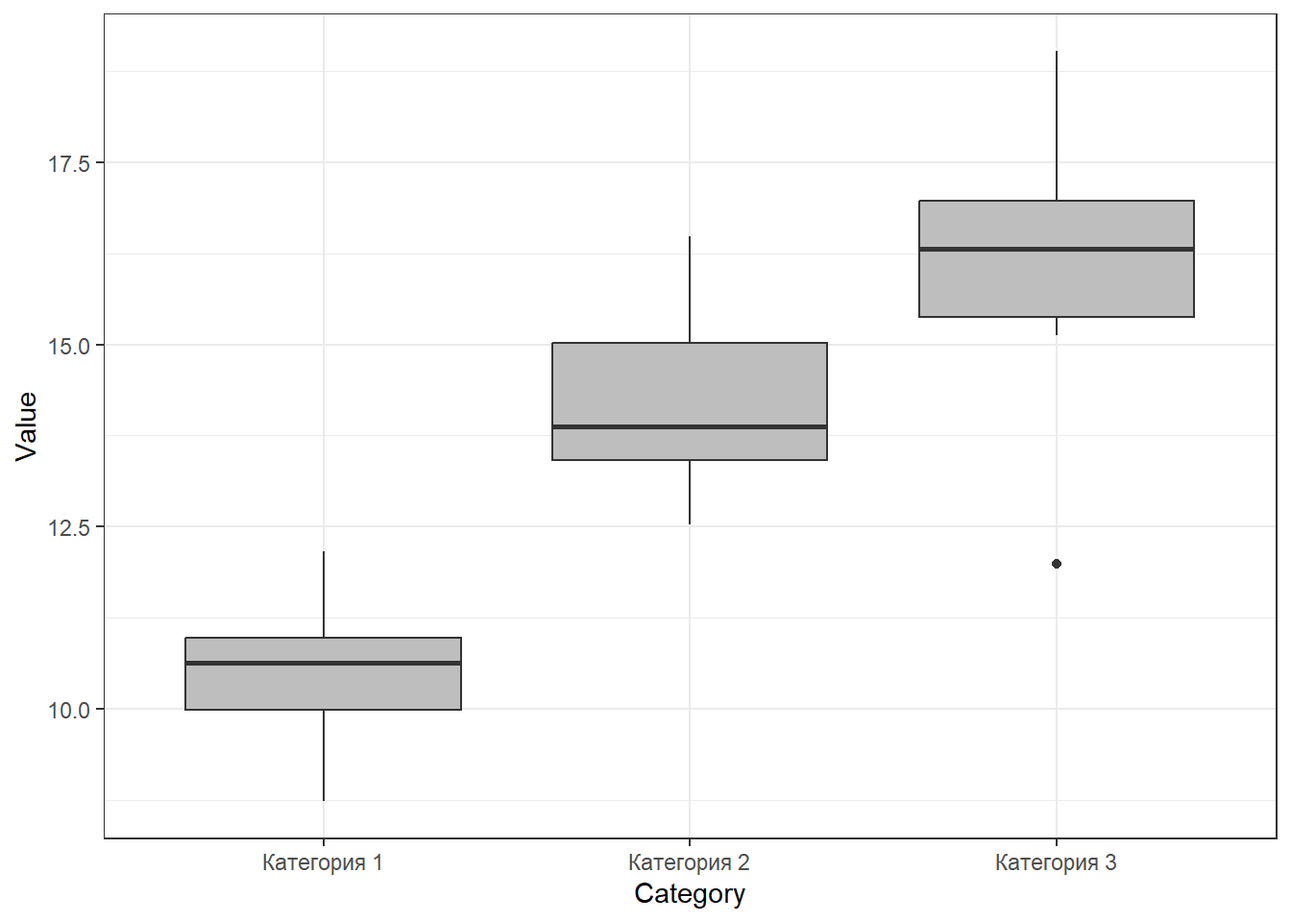
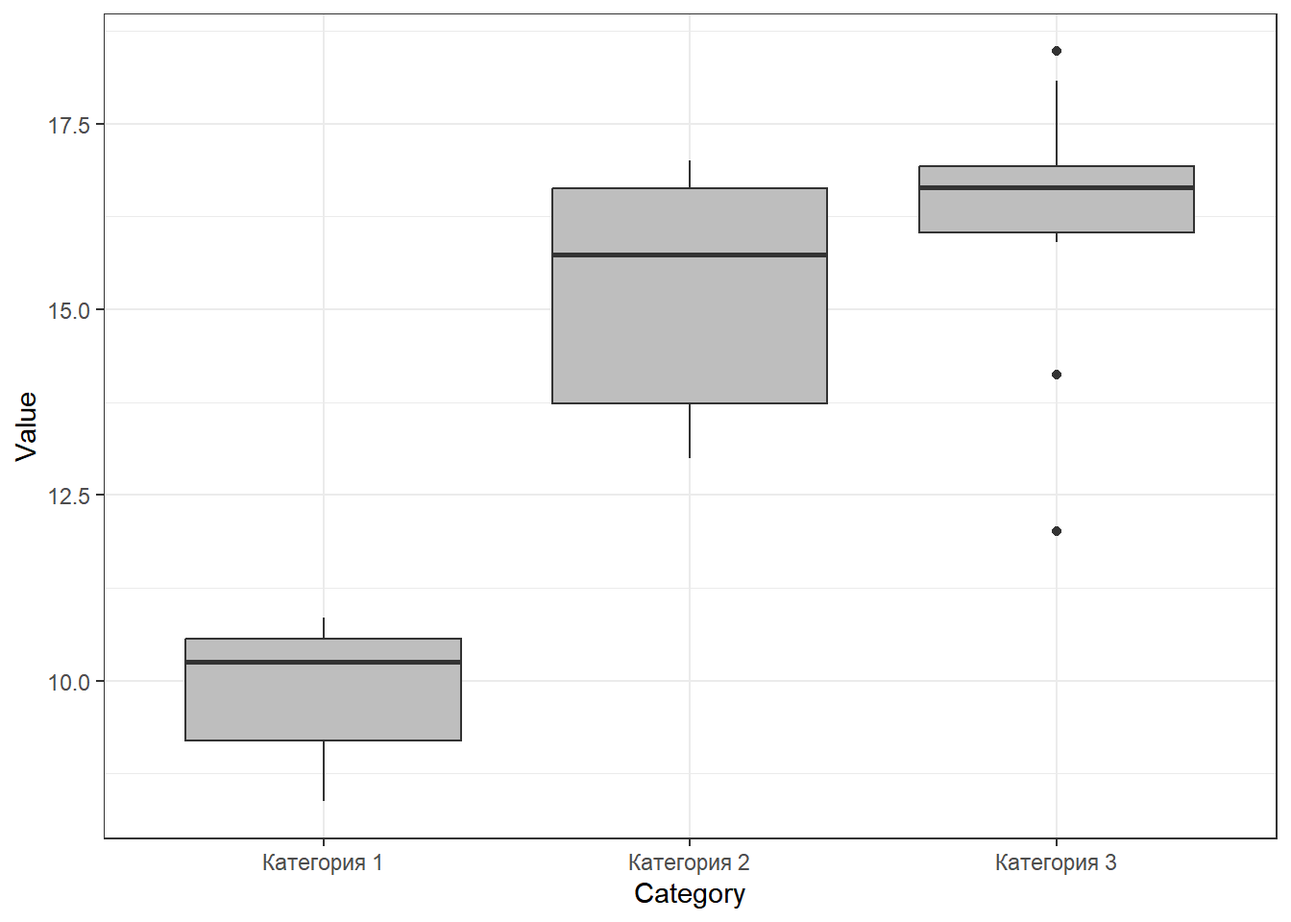
Открыл лекцию по диспе. анализу

diff --git a/lectures.html b/lectures.html
@@ -13,7 +13,7 @@
 
 <title>Презентации и данные</title>
 
-<script src="site_libs/header-attrs-2.25/header-attrs.js"></script>
+<script src="site_libs/header-attrs-2.28/header-attrs.js"></script>
 <script src="site_libs/jquery-3.6.0/jquery-3.6.0.min.js"></script>
 <meta name="viewport" content="width=device-width, initial-scale=1" />
 <link href="site_libs/bootstrap-3.3.5/css/flatly.min.css" rel="stylesheet" />
@@ -33,8 +33,6 @@
 <link href="site_libs/tocify-1.9.1/jquery.tocify.css" rel="stylesheet" />
 <script src="site_libs/tocify-1.9.1/jquery.tocify.js"></script>
 <script src="site_libs/navigation-1.1/tabsets.js"></script>
-<link href="site_libs/tabwid-1.1.3/tabwid.css" rel="stylesheet" />
-<script src="site_libs/tabwid-1.1.3/tabwid.js"></script>
 
 <style type="text/css">
   code{white-space: pre-wrap;}
@@ -566,8 +564,7 @@ virginica.</p>
 набить в экселе.</p>
 <p>Для примера, решение аналогичного задания, для вида “setosa” по
 переменной <code>iris$Sepal.Width</code> будет выглядеть вот так.</p>
-<pre><code>## Warning: пакет &#39;flextable&#39; был собран под R версии 4.3.3</code></pre>
-<div class="tabwid"><style>.cl-69713e52{}.cl-69620ee6{font-family:'Arial';font-size:11pt;font-weight:normal;font-style:normal;text-decoration:none;color:rgba(0, 0, 0, 1.00);background-color:transparent;}.cl-69664e34{margin:0;text-align:left;border-bottom: 0 solid rgba(0, 0, 0, 1.00);border-top: 0 solid rgba(0, 0, 0, 1.00);border-left: 0 solid rgba(0, 0, 0, 1.00);border-right: 0 solid rgba(0, 0, 0, 1.00);padding-bottom:5pt;padding-top:5pt;padding-left:5pt;padding-right:5pt;line-height: 1;background-color:transparent;}.cl-69664e3e{margin:0;text-align:right;border-bottom: 0 solid rgba(0, 0, 0, 1.00);border-top: 0 solid rgba(0, 0, 0, 1.00);border-left: 0 solid rgba(0, 0, 0, 1.00);border-right: 0 solid rgba(0, 0, 0, 1.00);padding-bottom:5pt;padding-top:5pt;padding-left:5pt;padding-right:5pt;line-height: 1;background-color:transparent;}.cl-69666acc{width:0.75in;background-color:transparent;vertical-align: middle;border-bottom: 1.5pt solid rgba(102, 102, 102, 1.00);border-top: 1.5pt solid rgba(102, 102, 102, 1.00);border-left: 0 solid rgba(0, 0, 0, 1.00);border-right: 0 solid rgba(0, 0, 0, 1.00);margin-bottom:0;margin-top:0;margin-left:0;margin-right:0;}.cl-69666ad6{width:0.75in;background-color:transparent;vertical-align: middle;border-bottom: 1.5pt solid rgba(102, 102, 102, 1.00);border-top: 1.5pt solid rgba(102, 102, 102, 1.00);border-left: 0 solid rgba(0, 0, 0, 1.00);border-right: 0 solid rgba(0, 0, 0, 1.00);margin-bottom:0;margin-top:0;margin-left:0;margin-right:0;}.cl-69666ad7{width:0.75in;background-color:transparent;vertical-align: middle;border-bottom: 0 solid rgba(0, 0, 0, 1.00);border-top: 0 solid rgba(0, 0, 0, 1.00);border-left: 0 solid rgba(0, 0, 0, 1.00);border-right: 0 solid rgba(0, 0, 0, 1.00);margin-bottom:0;margin-top:0;margin-left:0;margin-right:0;}.cl-69666ae0{width:0.75in;background-color:transparent;vertical-align: middle;border-bottom: 0 solid rgba(0, 0, 0, 1.00);border-top: 0 solid rgba(0, 0, 0, 1.00);border-left: 0 solid rgba(0, 0, 0, 1.00);border-right: 0 solid rgba(0, 0, 0, 1.00);margin-bottom:0;margin-top:0;margin-left:0;margin-right:0;}.cl-69666ae1{width:0.75in;background-color:transparent;vertical-align: middle;border-bottom: 1.5pt solid rgba(102, 102, 102, 1.00);border-top: 0 solid rgba(0, 0, 0, 1.00);border-left: 0 solid rgba(0, 0, 0, 1.00);border-right: 0 solid rgba(0, 0, 0, 1.00);margin-bottom:0;margin-top:0;margin-left:0;margin-right:0;}.cl-69666ae2{width:0.75in;background-color:transparent;vertical-align: middle;border-bottom: 1.5pt solid rgba(102, 102, 102, 1.00);border-top: 0 solid rgba(0, 0, 0, 1.00);border-left: 0 solid rgba(0, 0, 0, 1.00);border-right: 0 solid rgba(0, 0, 0, 1.00);margin-bottom:0;margin-top:0;margin-left:0;margin-right:0;}</style><table data-quarto-disable-processing='true' class='cl-69713e52'><thead><tr style="overflow-wrap:break-word;"><th class="cl-69666acc"><p class="cl-69664e34"><span class="cl-69620ee6">Sepal.Width</span></p></th><th class="cl-69666ad6"><p class="cl-69664e3e"><span class="cl-69620ee6">Frequency</span></p></th></tr></thead><tbody><tr style="overflow-wrap:break-word;"><td class="cl-69666ad7"><p class="cl-69664e34"><span class="cl-69620ee6">2.3</span></p></td><td class="cl-69666ae0"><p class="cl-69664e3e"><span class="cl-69620ee6">1</span></p></td></tr><tr style="overflow-wrap:break-word;"><td class="cl-69666ad7"><p class="cl-69664e34"><span class="cl-69620ee6">2.9</span></p></td><td class="cl-69666ae0"><p class="cl-69664e3e"><span class="cl-69620ee6">1</span></p></td></tr><tr style="overflow-wrap:break-word;"><td class="cl-69666ad7"><p class="cl-69664e34"><span class="cl-69620ee6">3</span></p></td><td class="cl-69666ae0"><p class="cl-69664e3e"><span class="cl-69620ee6">6</span></p></td></tr><tr style="overflow-wrap:break-word;"><td class="cl-69666ad7"><p class="cl-69664e34"><span class="cl-69620ee6">3.1</span></p></td><td class="cl-69666ae0"><p class="cl-69664e3e"><span class="cl-69620ee6">4</span></p></td></tr><tr style="overflow-wrap:break-word;"><td class="cl-69666ad7"><p class="cl-69664e34"><span class="cl-69620ee6">3.2</span></p></td><td class="cl-69666ae0"><p class="cl-69664e3e"><span class="cl-69620ee6">5</span></p></td></tr><tr style="overflow-wrap:break-word;"><td class="cl-69666ad7"><p class="cl-69664e34"><span class="cl-69620ee6">3.3</span></p></td><td class="cl-69666ae0"><p class="cl-69664e3e"><span class="cl-69620ee6">2</span></p></td></tr><tr style="overflow-wrap:break-word;"><td class="cl-69666ad7"><p class="cl-69664e34"><span class="cl-69620ee6">3.4</span></p></td><td class="cl-69666ae0"><p class="cl-69664e3e"><span class="cl-69620ee6">9</span></p></td></tr><tr style="overflow-wrap:break-word;"><td class="cl-69666ad7"><p class="cl-69664e34"><span class="cl-69620ee6">3.5</span></p></td><td class="cl-69666ae0"><p class="cl-69664e3e"><span class="cl-69620ee6">6</span></p></td></tr><tr style="overflow-wrap:break-word;"><td class="cl-69666ad7"><p class="cl-69664e34"><span class="cl-69620ee6">3.6</span></p></td><td class="cl-69666ae0"><p class="cl-69664e3e"><span class="cl-69620ee6">3</span></p></td></tr><tr style="overflow-wrap:break-word;"><td class="cl-69666ad7"><p class="cl-69664e34"><span class="cl-69620ee6">3.7</span></p></td><td class="cl-69666ae0"><p class="cl-69664e3e"><span class="cl-69620ee6">3</span></p></td></tr><tr style="overflow-wrap:break-word;"><td class="cl-69666ad7"><p class="cl-69664e34"><span class="cl-69620ee6">3.8</span></p></td><td class="cl-69666ae0"><p class="cl-69664e3e"><span class="cl-69620ee6">4</span></p></td></tr><tr style="overflow-wrap:break-word;"><td class="cl-69666ad7"><p class="cl-69664e34"><span class="cl-69620ee6">3.9</span></p></td><td class="cl-69666ae0"><p class="cl-69664e3e"><span class="cl-69620ee6">2</span></p></td></tr><tr style="overflow-wrap:break-word;"><td class="cl-69666ad7"><p class="cl-69664e34"><span class="cl-69620ee6">4</span></p></td><td class="cl-69666ae0"><p class="cl-69664e3e"><span class="cl-69620ee6">1</span></p></td></tr><tr style="overflow-wrap:break-word;"><td class="cl-69666ad7"><p class="cl-69664e34"><span class="cl-69620ee6">4.1</span></p></td><td class="cl-69666ae0"><p class="cl-69664e3e"><span class="cl-69620ee6">1</span></p></td></tr><tr style="overflow-wrap:break-word;"><td class="cl-69666ad7"><p class="cl-69664e34"><span class="cl-69620ee6">4.2</span></p></td><td class="cl-69666ae0"><p class="cl-69664e3e"><span class="cl-69620ee6">1</span></p></td></tr><tr style="overflow-wrap:break-word;"><td class="cl-69666ae1"><p class="cl-69664e34"><span class="cl-69620ee6">4.4</span></p></td><td class="cl-69666ae2"><p class="cl-69664e3e"><span class="cl-69620ee6">1</span></p></td></tr></tbody></table></div>
+<div class="tabwid"><style>.cl-75942f70{}.cl-757adb9c{font-family:'Arial';font-size:11pt;font-weight:normal;font-style:normal;text-decoration:none;color:rgba(0, 0, 0, 1.00);background-color:transparent;}.cl-75850d56{margin:0;text-align:left;border-bottom: 0 solid rgba(0, 0, 0, 1.00);border-top: 0 solid rgba(0, 0, 0, 1.00);border-left: 0 solid rgba(0, 0, 0, 1.00);border-right: 0 solid rgba(0, 0, 0, 1.00);padding-bottom:5pt;padding-top:5pt;padding-left:5pt;padding-right:5pt;line-height: 1;background-color:transparent;}.cl-75850d6a{margin:0;text-align:right;border-bottom: 0 solid rgba(0, 0, 0, 1.00);border-top: 0 solid rgba(0, 0, 0, 1.00);border-left: 0 solid rgba(0, 0, 0, 1.00);border-right: 0 solid rgba(0, 0, 0, 1.00);padding-bottom:5pt;padding-top:5pt;padding-left:5pt;padding-right:5pt;line-height: 1;background-color:transparent;}.cl-75854c26{width:0.75in;background-color:transparent;vertical-align: middle;border-bottom: 1.5pt solid rgba(102, 102, 102, 1.00);border-top: 1.5pt solid rgba(102, 102, 102, 1.00);border-left: 0 solid rgba(0, 0, 0, 1.00);border-right: 0 solid rgba(0, 0, 0, 1.00);margin-bottom:0;margin-top:0;margin-left:0;margin-right:0;}.cl-75854c30{width:0.75in;background-color:transparent;vertical-align: middle;border-bottom: 1.5pt solid rgba(102, 102, 102, 1.00);border-top: 1.5pt solid rgba(102, 102, 102, 1.00);border-left: 0 solid rgba(0, 0, 0, 1.00);border-right: 0 solid rgba(0, 0, 0, 1.00);margin-bottom:0;margin-top:0;margin-left:0;margin-right:0;}.cl-75854c3a{width:0.75in;background-color:transparent;vertical-align: middle;border-bottom: 0 solid rgba(0, 0, 0, 1.00);border-top: 0 solid rgba(0, 0, 0, 1.00);border-left: 0 solid rgba(0, 0, 0, 1.00);border-right: 0 solid rgba(0, 0, 0, 1.00);margin-bottom:0;margin-top:0;margin-left:0;margin-right:0;}.cl-75854c3b{width:0.75in;background-color:transparent;vertical-align: middle;border-bottom: 0 solid rgba(0, 0, 0, 1.00);border-top: 0 solid rgba(0, 0, 0, 1.00);border-left: 0 solid rgba(0, 0, 0, 1.00);border-right: 0 solid rgba(0, 0, 0, 1.00);margin-bottom:0;margin-top:0;margin-left:0;margin-right:0;}.cl-75854c44{width:0.75in;background-color:transparent;vertical-align: middle;border-bottom: 1.5pt solid rgba(102, 102, 102, 1.00);border-top: 0 solid rgba(0, 0, 0, 1.00);border-left: 0 solid rgba(0, 0, 0, 1.00);border-right: 0 solid rgba(0, 0, 0, 1.00);margin-bottom:0;margin-top:0;margin-left:0;margin-right:0;}.cl-75854c45{width:0.75in;background-color:transparent;vertical-align: middle;border-bottom: 1.5pt solid rgba(102, 102, 102, 1.00);border-top: 0 solid rgba(0, 0, 0, 1.00);border-left: 0 solid rgba(0, 0, 0, 1.00);border-right: 0 solid rgba(0, 0, 0, 1.00);margin-bottom:0;margin-top:0;margin-left:0;margin-right:0;}</style><table data-quarto-disable-processing='true' class='cl-75942f70'><thead><tr style="overflow-wrap:break-word;"><th class="cl-75854c26"><p class="cl-75850d56"><span class="cl-757adb9c">Sepal.Width</span></p></th><th class="cl-75854c30"><p class="cl-75850d6a"><span class="cl-757adb9c">Frequency</span></p></th></tr></thead><tbody><tr style="overflow-wrap:break-word;"><td class="cl-75854c3a"><p class="cl-75850d56"><span class="cl-757adb9c">2.3</span></p></td><td class="cl-75854c3b"><p class="cl-75850d6a"><span class="cl-757adb9c">1</span></p></td></tr><tr style="overflow-wrap:break-word;"><td class="cl-75854c3a"><p class="cl-75850d56"><span class="cl-757adb9c">2.9</span></p></td><td class="cl-75854c3b"><p class="cl-75850d6a"><span class="cl-757adb9c">1</span></p></td></tr><tr style="overflow-wrap:break-word;"><td class="cl-75854c3a"><p class="cl-75850d56"><span class="cl-757adb9c">3</span></p></td><td class="cl-75854c3b"><p class="cl-75850d6a"><span class="cl-757adb9c">6</span></p></td></tr><tr style="overflow-wrap:break-word;"><td class="cl-75854c3a"><p class="cl-75850d56"><span class="cl-757adb9c">3.1</span></p></td><td class="cl-75854c3b"><p class="cl-75850d6a"><span class="cl-757adb9c">4</span></p></td></tr><tr style="overflow-wrap:break-word;"><td class="cl-75854c3a"><p class="cl-75850d56"><span class="cl-757adb9c">3.2</span></p></td><td class="cl-75854c3b"><p class="cl-75850d6a"><span class="cl-757adb9c">5</span></p></td></tr><tr style="overflow-wrap:break-word;"><td class="cl-75854c3a"><p class="cl-75850d56"><span class="cl-757adb9c">3.3</span></p></td><td class="cl-75854c3b"><p class="cl-75850d6a"><span class="cl-757adb9c">2</span></p></td></tr><tr style="overflow-wrap:break-word;"><td class="cl-75854c3a"><p class="cl-75850d56"><span class="cl-757adb9c">3.4</span></p></td><td class="cl-75854c3b"><p class="cl-75850d6a"><span class="cl-757adb9c">9</span></p></td></tr><tr style="overflow-wrap:break-word;"><td class="cl-75854c3a"><p class="cl-75850d56"><span class="cl-757adb9c">3.5</span></p></td><td class="cl-75854c3b"><p class="cl-75850d6a"><span class="cl-757adb9c">6</span></p></td></tr><tr style="overflow-wrap:break-word;"><td class="cl-75854c3a"><p class="cl-75850d56"><span class="cl-757adb9c">3.6</span></p></td><td class="cl-75854c3b"><p class="cl-75850d6a"><span class="cl-757adb9c">3</span></p></td></tr><tr style="overflow-wrap:break-word;"><td class="cl-75854c3a"><p class="cl-75850d56"><span class="cl-757adb9c">3.7</span></p></td><td class="cl-75854c3b"><p class="cl-75850d6a"><span class="cl-757adb9c">3</span></p></td></tr><tr style="overflow-wrap:break-word;"><td class="cl-75854c3a"><p class="cl-75850d56"><span class="cl-757adb9c">3.8</span></p></td><td class="cl-75854c3b"><p class="cl-75850d6a"><span class="cl-757adb9c">4</span></p></td></tr><tr style="overflow-wrap:break-word;"><td class="cl-75854c3a"><p class="cl-75850d56"><span class="cl-757adb9c">3.9</span></p></td><td class="cl-75854c3b"><p class="cl-75850d6a"><span class="cl-757adb9c">2</span></p></td></tr><tr style="overflow-wrap:break-word;"><td class="cl-75854c3a"><p class="cl-75850d56"><span class="cl-757adb9c">4</span></p></td><td class="cl-75854c3b"><p class="cl-75850d6a"><span class="cl-757adb9c">1</span></p></td></tr><tr style="overflow-wrap:break-word;"><td class="cl-75854c3a"><p class="cl-75850d56"><span class="cl-757adb9c">4.1</span></p></td><td class="cl-75854c3b"><p class="cl-75850d6a"><span class="cl-757adb9c">1</span></p></td></tr><tr style="overflow-wrap:break-word;"><td class="cl-75854c3a"><p class="cl-75850d56"><span class="cl-757adb9c">4.2</span></p></td><td class="cl-75854c3b"><p class="cl-75850d6a"><span class="cl-757adb9c">1</span></p></td></tr><tr style="overflow-wrap:break-word;"><td class="cl-75854c44"><p class="cl-75850d56"><span class="cl-757adb9c">4.4</span></p></td><td class="cl-75854c45"><p class="cl-75850d6a"><span class="cl-757adb9c">1</span></p></td></tr></tbody></table></div>
 <p><strong>Полученный датасет необходимо сохранить в формате
 .csv</strong>.</p>
 <p><br> <br></p>
@@ -727,38 +724,54 @@ class="section level2">
 гипотезы и сделать выбор между ними) и визуализировать в виде столбчатой
 диаграммы (необходимо написать код, который ее построит).</p>
 <p><strong>Вариант 1.</strong></p>
-<p>Рост эльфов из вашего отряда (см): 178, 180, 181, 183, 181, 183, 178,
-180, 174, 183, 180, 189, 178, 179, 177</p>
-<p>Рост фигур (см): 168, 162, 163, 171, 171, 163, 167, 160, 159, 174,
-163, 169</p>
+<p>Рост эльфов из вашего отряда (см): 185, 175, 179, 172, 183, 180, 187,
+183, 174, 176, 178, 175, 182, 180, 178</p>
+<p>Рост фигур (см): 166, 165, 158, 168, 164, 160, 168, 163, 167, 157,
+162, 168, 169, 163, 166, 178</p>
 <p><strong>Вариант 2.</strong></p>
-<p>Рост эльфов из вашего отряда (см): 181, 179, 188, 178, 175, 177, 181,
-180, 166, 178, 179, 188, 182, 176, 181</p>
-<p>Рост фигур (см): 183, 187, 186, 209, 187, 182, 185, 183, 204, 195,
-181</p>
+<p>Рост эльфов из вашего отряда (см): 174, 184, 180, 179, 177, 183, 182,
+187, 189, 174, 179, 185, 178, 184, 177</p>
+<p>Рост фигур (см): 202, 183, 192, 199, 194, 182, 186, 197, 197, 188,
+194, 189, 188, 196</p>
 <p><strong>Вариант 3.</strong></p>
-<p>Рост эльфов из вашего отряда (см): 183, 174, 181, 188, 173, 181, 176,
-172, 173, 187, 186, 169, 178, 181, 181</p>
-<p>Рост фигур (см): 149, 145, 136, 139, 158, 143, 144, 153, 165, 146,
-138, 143, 150, 141, 150, 137, 133, 150</p>
+<p>Рост эльфов из вашего отряда (см): 179, 186, 174, 179, 184, 175, 181,
+183, 185, 182, 174, 183, 186, 178, 179</p>
+<p>Рост фигур (см): 145, 153, 138, 149, 157, 158, 155, 162, 141, 159,
+150, 147, 145, 150, 149, 158</p>
 </div>
 </div>
 <div id="однофакторный-дисперсионный-анализ" class="section level1">
 <h1>6. Однофакторный дисперсионный анализ</h1>
 <p><br></p>
-<!-- [Презентация про ANOVA](05_anova1.html) -->
-<!-- ## Домашнее задание  -->
-<!-- Скачайте файл, в котором находятся данные по метеорологическим наблюдениям на территории Кандалакшского заповедника. Файл поместите в папку `Data` (ну или как она у вас называется) -->
-<!-- - [Данные](data/hydrology_2022.xls) -->
-<!-- **Ваша миссия** -->
-<!-- 1. Необходимо выяснить наблюдаются ли различия между тремя летними месяцами (нужно будет провести дисперсионный анализ) в том параметре, котоый будет у вашего варианта. -->
-<!-- 2. Проведите анализ остатков и оцените, выполняются ли условия применимости ANOVA. -->
-<!-- 3. Визуализируйте с помощью столбчатой диаграммы (с доверительными интервалами) средние значения. Проведя post-hoc сравнение средних, обозначьте на рисунке те средние, которые отличаются друг от друга по критерию Тьюки.  -->
+<p><a href="05_anova1.html">Презентация про ANOVA</a></p>
+<div id="домашнее-задание-5" class="section level2">
+<h2>Домашнее задание</h2>
+<p>Скачайте файл, в котором находятся данные по метеорологическим
+наблюдениям на территории Кандалакшского заповедника. Файл поместите в
+папку <code>Data</code> (ну или как она у вас называется)</p>
+<ul>
+<li><a href="data/hydrology_2022.xls">Данные</a></li>
+</ul>
+<p><strong>Ваша миссия</strong></p>
+<ol style="list-style-type: decimal">
+<li><p>Необходимо выяснить наблюдаются ли различия между тремя летними
+месяцами (нужно будет провести дисперсионный анализ) в том параметре,
+котоый будет у вашего варианта.</p></li>
+<li><p>Проведите анализ остатков и оцените, выполняются ли условия
+применимости ANOVA.</p></li>
+<li><p>Визуализируйте с помощью столбчатой диаграммы (с доверительными
+интервалами) средние значения. Проведя post-hoc сравнение средних,
+обозначьте на рисунке те средние, которые отличаются друг от друга по
+критерию Тьюки.</p></li>
+</ol>
 <!-- 4. Результаты ваших действий с соответствующими текстовыми комментариями должны быть оформлены в виде **html-файла** (именно его и надо прислать!), который вы сгенерируете из RMD файла. При этом, код из чанков должен быть виден в итоговом html-файле (в настроечном чанке оставьте `echo = TRUE`). -->
-<!-- *Варианты:* -->
-<!-- Вариант 1. Анализ солености (переменная **S**) -->
-<!-- Вариант 2. Анализ температуры воздуха (переменная **Air_T**) -->
-<!-- Вариант 3. Анализ температуры воды (переменная **Water_T**) -->
+<p><em>Варианты:</em></p>
+<p>Вариант 1. Анализ солености (переменная <strong>S</strong>)</p>
+<p>Вариант 2. Анализ температуры воздуха (переменная
+<strong>Air_T</strong>)</p>
+<p>Вариант 3. Анализ температуры воды (переменная
+<strong>Water_T</strong>)</p>
+</div>
 </div>
 <div id="двухфакторный-дисперсионный-анализ" class="section level1">
 <h1>7. Двухфакторный дисперсионный анализ</h1>
@@ -804,13 +817,14 @@ class="section level1">
 <h1>Оценки за домашние работы</h1>
 <table>
 <colgroup>
-<col width="44%" />
+<col width="41%" />
 <col width="6%" />
 <col width="5%" />
 <col width="6%" />
 <col width="6%" />
 <col width="6%" />
-<col width="24%" />
+<col width="6%" />
+<col width="22%" />
 </colgroup>
 <thead>
 <tr class="header">
@@ -820,7 +834,8 @@ class="section level1">
 <th align="left">ДЗ_3</th>
 <th align="right">ДЗ_4</th>
 <th align="right">ДЗ_5</th>
-<th align="right">Варианты для ДЗ_6</th>
+<th align="right">ДЗ_6</th>
+<th align="right">Варианты для ДЗ_7</th>
 </tr>
 </thead>
 <tbody>
@@ -831,6 +846,7 @@ class="section level1">
 <td align="left">NA</td>
 <td align="right">NA</td>
 <td align="right">100</td>
+<td align="right">NA</td>
 <td align="right">1</td>
 </tr>
 <tr class="even">
@@ -839,6 +855,7 @@ class="section level1">
 <td align="right">100</td>
 <td align="left">NA</td>
 <td align="right">100</td>
+<td align="right">NA</td>
 <td align="right">NA</td>
 <td align="right">1</td>
 </tr>
@@ -849,6 +866,7 @@ class="section level1">
 <td align="left">NA</td>
 <td align="right">NA</td>
 <td align="right">NA</td>
+<td align="right">100</td>
 <td align="right">1</td>
 </tr>
 <tr class="even">
@@ -858,6 +876,7 @@ class="section level1">
 <td align="left">NA</td>
 <td align="right">50</td>
 <td align="right">NA</td>
+<td align="right">100</td>
 <td align="right">2</td>
 </tr>
 <tr class="odd">
@@ -867,6 +886,7 @@ class="section level1">
 <td align="left">NA</td>
 <td align="right">50</td>
 <td align="right">100</td>
+<td align="right">100</td>
 <td align="right">2</td>
 </tr>
 <tr class="even">
@@ -874,6 +894,7 @@ class="section level1">
 <td align="right">100</td>
 <td align="right">100</td>
 <td align="left">NA</td>
+<td align="right">NA</td>
 <td align="right">NA</td>
 <td align="right">NA</td>
 <td align="right">3</td>
@@ -885,6 +906,7 @@ class="section level1">
 <td align="left">NA</td>
 <td align="right">NA</td>
 <td align="right">NA</td>
+<td align="right">NA</td>
 <td align="right">3</td>
 </tr>
 <tr class="even">
@@ -892,6 +914,7 @@ class="section level1">
 <td align="right">60</td>
 <td align="right">NA</td>
 <td align="left">NA</td>
+<td align="right">NA</td>
 <td align="right">NA</td>
 <td align="right">NA</td>
 <td align="right">3</td>
